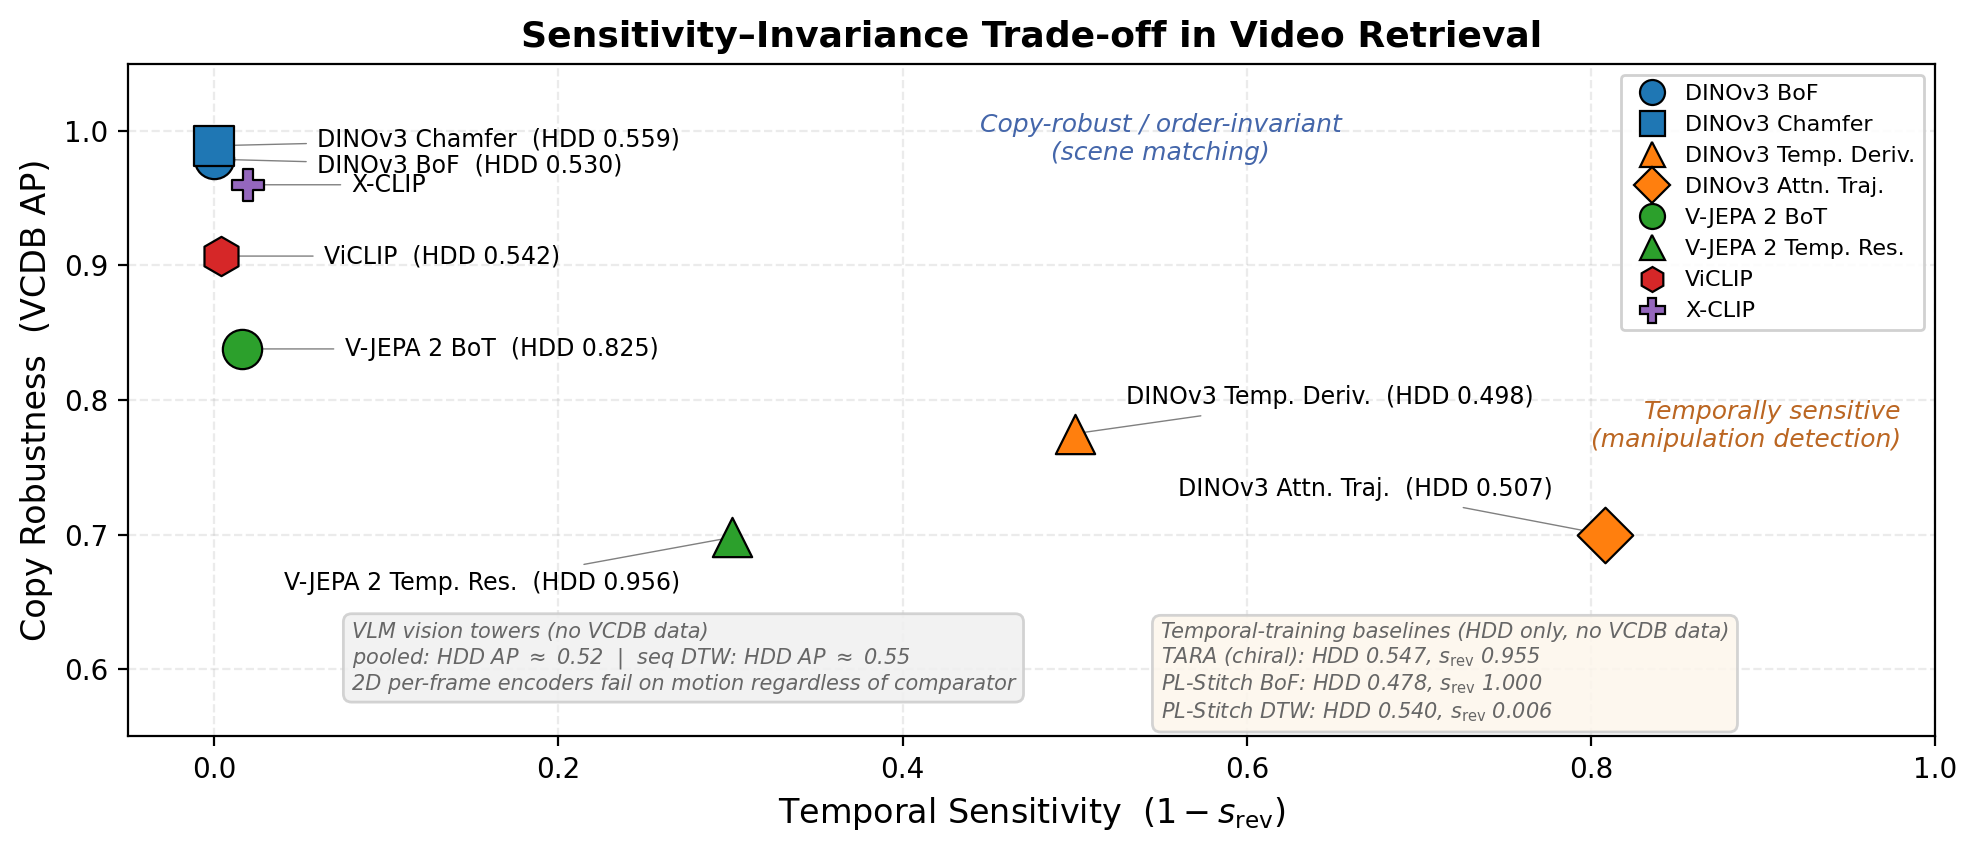
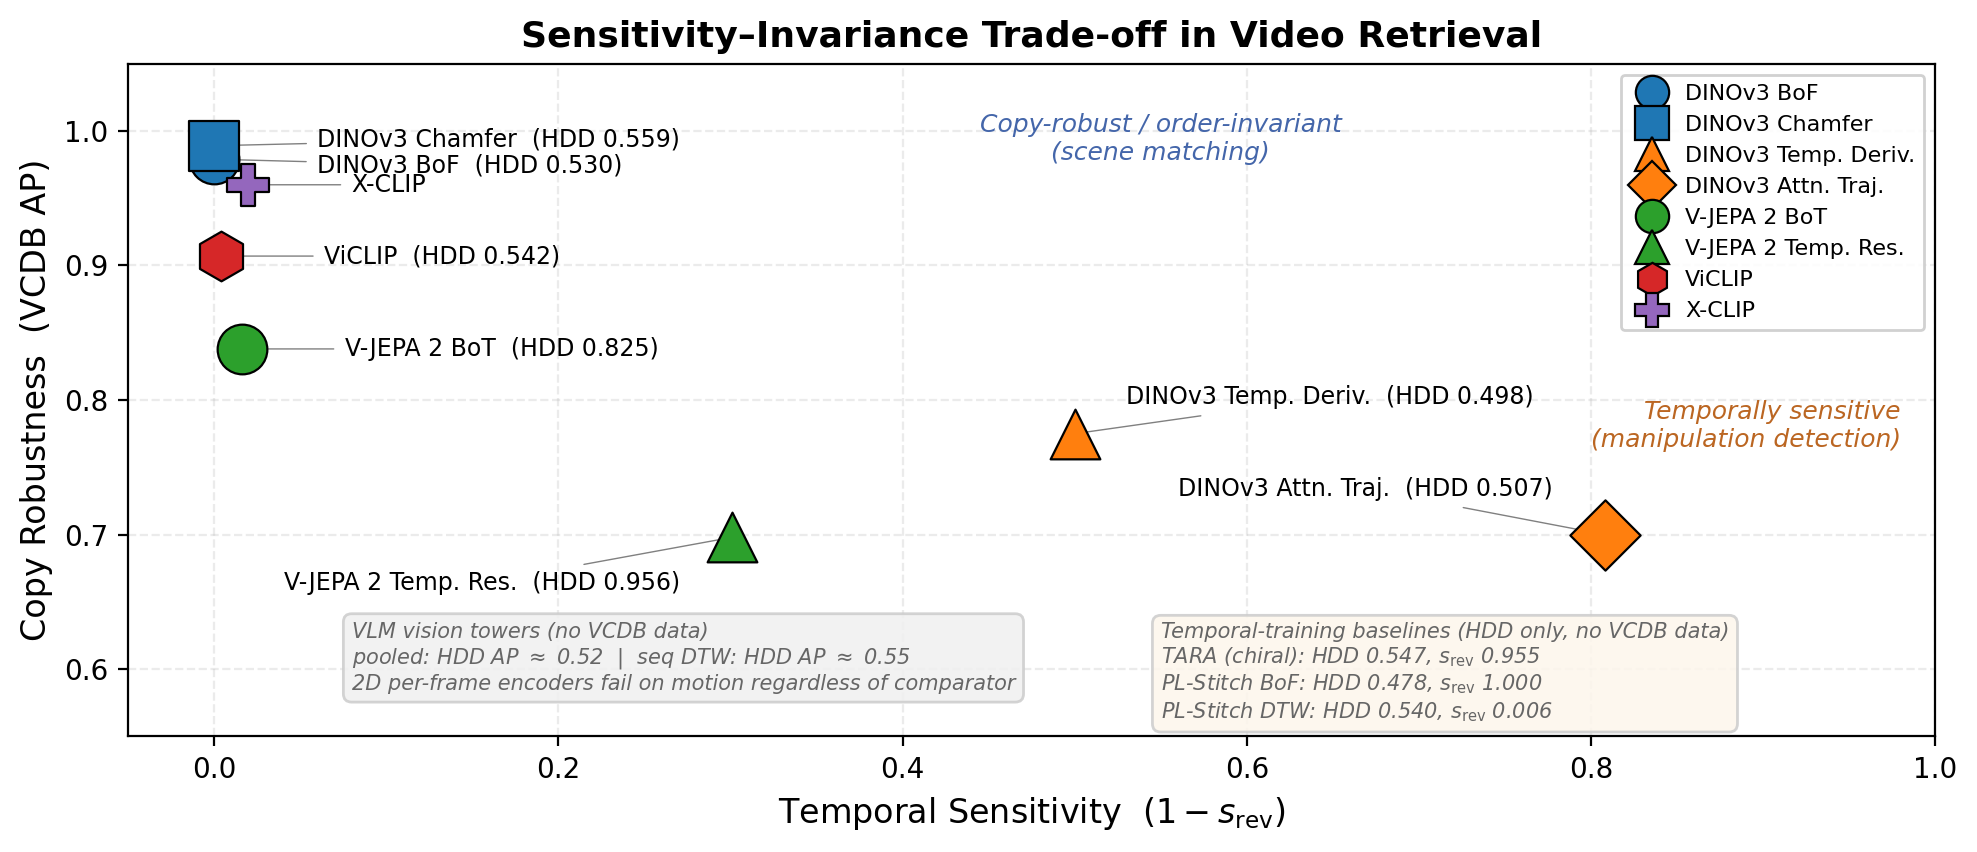
Content + citation pass: 10 bib fixes, active-voice abstract, numbered decision procedure, CI caveats, bigger Fig 5 markers
Content revisions per user feedback:
1. Abstract opener switched to active voice: "Video retrieval systems
   are temporally blind: reversed videos return identical embeddings,
   and no downstream signal flags the failure" (was a passive
   observational lede).
2. Decision procedure in Discussion now uses bold inline numbered
   steps (1)-(4) rather than prose-buried semicolons — visually
   distinct without costing vertical space. This is the "so what"
   answer to "where's the method?"
3. 89% claim now carries the cluster-level CI caveat at every
   citation site (Results, Discussion, Conclusion), not only Abstract.
4. Figure 5 markers enlarged (scatter s=320 / legend markersize=12,
   was 200/9) for print readability; paper width tightened to
   0.68\textwidth to preserve 9-page fit.

Second-round bib verification (47 remaining entries vs canonical
sources) caught 10 more corrections:
- [2]  vjepa21: added missing subtitle ("Unlocking Dense Features in
       Video Self-Supervised Learning").
- [4]  vcdb: expanded from stub "VCDB" to full title + 4 author names.
- [5]  honda_hdd: expanded from "Toward driving scene understanding"
       to full title + 4 author names.
- [9]  3dcsl: removed "et al." (paper has 3 authors, now listed in
       full); title casing corrected.
- [15] gemma4: "Technical Report" (unverified) -> "Model Card" (which
       does exist at the cited URL).
- [19] muvr: expanded to full title with "Benchmark with Multi-Level
[…]

diff --git a/paper/paper.tex b/paper/paper.tex
@@ -22,6 +22,7 @@
 \usepackage{placeins}
 \usepackage{multirow}
 \usepackage{amsthm}
+\usepackage{enumitem}
 
 \newtheorem{corollary}{Corollary}
 \newtheorem{lemma}{Lemma}
@@ -35,9 +36,10 @@
 \maketitle
 
 \begin{abstract}
-Temporal blindness in video models is well-documented for generative QA, but its
-consequences for \emph{retrieval embeddings}---where failures are silent---remain
-uncharacterized. We diagnose temporal sensitivity across six retrieval benchmarks
+Video retrieval systems are temporally blind: reversed videos return identical
+embeddings, and no downstream signal flags the failure. While this blindness
+is well-documented for generative QA, its consequences for \emph{retrieval
+embeddings} remain uncharacterized. We diagnose temporal sensitivity across six retrieval benchmarks
 spanning copy detection, temporal manipulation, and high-overlap motion retrieval.
 A feature-vs-comparator decomposition reveals that, within a given encoder,
 the matching stage (per-frame representation and sequence-aware similarity)
@@ -184,7 +186,7 @@ V-JEPA 2 Encoder-Seq DTW & 0.942 & 0.935 \\
 \end{tabular}
 \end{table}
 
-DINOv3 methods fail (AP $\approx$ 0.50): dashcam attention tracks salient objects identical for both turns. V-JEPA~2 temporal residuals achieve AP\,=\,0.956; a pixel-difference motion proxy rules out a trivial intensity shortcut (Spearman $r = 0.051$; Appendix~\ref{sec:hdd_leakage}), and optical flow (RAFT) achieves only AP\,=\,0.478. Restricting to left-vs-right pairs yields AP\,=\,0.960 [0.958, 0.963]. Comparing encoder patches via DTW (encoder-sequence DTW) achieves AP\,=\,0.942, showing that the matching stage (pooled-cosine $\to$ per-frame DTW) explains 89\% of the BoT-to-residual gap (0.825 $\to$ 0.956). A pairwise \emph{symmetric-max} (Chamfer) aggregation~\cite{kordopatis2019visil} on the same V-JEPA~2 encoder-sequence patches further decomposes this: it reaches AP\,=\,0.914 without any dynamic programming, closing 76\% of the BoT$\to$Encoder-Seq-DTW gap. The remaining 24\% (0.914$\to$0.942) is attributable specifically to DTW's monotonic warping constraint. We restrict encoder-sequence DTW to motion tasks (HDD, nuScenes); on VCDB, BoF already hits AP\,=\,0.989.
+DINOv3 methods fail (AP $\approx$ 0.50): dashcam attention tracks salient objects identical for both turns. V-JEPA~2 temporal residuals achieve AP\,=\,0.956; a pixel-difference motion proxy rules out a trivial intensity shortcut (Spearman $r = 0.051$; Appendix~\ref{sec:hdd_leakage}), and optical flow (RAFT) achieves only AP\,=\,0.478. Restricting to left-vs-right pairs yields AP\,=\,0.960 [0.958, 0.963]. Comparing encoder patches via DTW (encoder-sequence DTW) achieves AP\,=\,0.942, showing that the matching stage (pooled-cosine $\to$ per-frame DTW) explains 89\% of the BoT-to-residual gap (0.825 $\to$ 0.956; point estimate, cluster-level CIs wider, Appendix~\ref{sec:bootstrap_cis}). A pairwise \emph{symmetric-max} (Chamfer) aggregation~\cite{kordopatis2019visil} on the same V-JEPA~2 encoder-sequence patches further decomposes this: it reaches AP\,=\,0.914 without any dynamic programming, closing 76\% of the BoT$\to$Encoder-Seq-DTW gap. The remaining 24\% (0.914$\to$0.942) is attributable specifically to DTW's monotonic warping constraint. We restrict encoder-sequence DTW to motion tasks (HDD, nuScenes); on VCDB, BoF already hits AP\,=\,0.989.
 
 TARA~\cite{tara}, a 7B MLLM trained with chiral negatives, hits AP\,=\,0.547 under cosine---indistinguishable from ViCLIP (0.542) despite ${\sim}23\times$ more parameters. PL-Stitch~\cite{plstitch} (ViT-Base, Plackett-Luce ranking) supports the same decomposition: BoF yields AP\,=\,0.478, DTW on raw embeddings 0.540---both near chance, and below DINOv3 Chamfer (0.559), possibly reflecting a capacity (86M vs.\ 300M) and pretraining-scale gap rather than a comparator effect. Yet $s_\text{rev}\!=\!0.006$ under raw DTW confirms PL-Stitch \emph{does} encode frame order---the features are not discriminative enough for maneuver retrieval.
 
@@ -363,17 +365,19 @@ Qwen3-VL & 0.916 & 0.518 & 0.630 & $\geq$0.998 & N/A \\
 
 \textbf{Video prediction for temporal understanding.} V-JEPA~2~\cite{vjepa2} learns spatiotemporal representations via masked prediction. Drive-JEPA~\cite{drivejepa} is a downstream application (JEPA distillation for end-to-end driving), not a competing diagnosis; we instead treat V-JEPA~2 as one of several encoders under a retrieval-diagnosis lens. TWLV-I~\cite{twlvi} evaluates appearance vs.\ motion across video foundation models. Li et al.~\cite{temporaltransfer} show temporal information is encoded but standard pipelines fail to surface it, matching our finding.
 
-\textbf{Temporal alignment for retrieval.} DTW~\cite{sakoe1978dtw} remains standard; extensions include differentiable DTW~\cite{ddtw} and Drop-DTW~\cite{dropdtw}. At $T \approx 30$ frames, each comparison takes ${\sim}1$\,ms; top-100 reranking after FAISS~\cite{faiss} adds ${\sim}100$\,ms. We use DTW as a diagnostic tool; Weller et al.~\cite{weller2025limits} provide theoretical justification for multi-vector approaches.
+\textbf{Temporal alignment for retrieval.} DTW~\cite{sakoe1978dtw} remains standard; extensions include Soft-DTW~\cite{ddtw} and Drop-DTW~\cite{dropdtw}. We use DTW as a diagnostic tool; Weller et al.~\cite{weller2025limits} provide theoretical justification for multi-vector approaches.
 
 \section{Discussion}
 \label{sec:discussion}
 
-No single method dominates. \textbf{(i)~Scene matching} (VCDB, Nymeria, MUVR): BoF wins; temporal methods add noise (Appendix~\ref{sec:scene_matching}). \textbf{(ii)~Motion dynamics} (HDD, nuScenes): per-frame methods and VLM vision towers fail (AP\,$\leq$\,0.56); the residual advantage grows under sparser sampling (Section~\ref{sec:context_sweep}). On HDD, 89\% of the BoT-to-residual gap traces to the matching stage (per-frame structure with sequence-aware similarity), and on nuScenes the matching stage alone is on par with the residual transform (AP\,=\,0.867 vs.\ 0.815, marginally overlapping CIs)---within a given encoder, matching, not encoding, is the dominant driver. Video-native ViCLIP~\cite{viclip} ($s_\text{rev}\!=\!0.996$, HDD AP\,=\,0.542) and X-CLIP~\cite{xclip} ($s_\text{rev}\!=\!0.980$) do not escape the blind spot. Encoders with explicit temporal training fare no better: TARA~\cite{tara} (HDD AP\,=\,0.547) and PL-Stitch~\cite{plstitch} BoF (0.478) fail under cosine; even under DTW, PL-Stitch (0.540, $s_\text{rev}\!=\!0.006$---order \emph{is} encoded) trails DINOv3 Chamfer (0.559). V-JEPA~2's spatiotemporal masked-prediction supervises motion; image-SSL (DINOv3) and temporal ranking (PL-Stitch) are insufficient without capacity and scale. \textbf{(iii)~Temporal manipulation} (reversal, scrambling): implicit 3D models~\cite{3dcsl}, frame-sampling defenses~\cite{fojcik2025}, and Video-LLMs all remain order-invariant~\cite{plstitch, aot}. Chiral training (TARA, $s_\text{rev}\!=\!0.955$) and a reasoning VLM (Gemini~3.1 Pro, $0.599$) improve over baselines but neither reaches reliable. Per-frame features separate forward/reverse under DTW; pooling erases it across all LLM layers. \textbf{Decision procedure.} The three tools compose prescriptively: scramble first (flat AP $\Rightarrow$ A/A$'$); if degrading, feature-vs-comparator decomposition attributes to encoder (B) vs.\ matching (C); sampling-density sweep isolates D/D$'$. E/E$'$ and F/F$'$ surface via cluster CIs and generative-vs-embedding disagreement, running Table~\ref{tab:failure_taxonomy} as a protocol rather than post-hoc classification.
+No single method dominates. \textbf{(i)~Scene matching} (VCDB, Nymeria, MUVR): BoF wins; temporal methods add noise (Appendix~\ref{sec:scene_matching}). \textbf{(ii)~Motion dynamics} (HDD, nuScenes): per-frame methods and VLM vision towers fail (AP\,$\leq$\,0.56); the residual advantage grows under sparser sampling (Section~\ref{sec:context_sweep}). On HDD, 89\% of the BoT-to-residual gap traces to the matching stage (per-frame structure with sequence-aware similarity; cluster-level CIs wider), and on nuScenes the matching stage alone is on par with the residual transform (AP\,=\,0.867 vs.\ 0.815, marginally overlapping CIs)---within a given encoder, matching, not encoding, is the dominant driver. Video-native ViCLIP~\cite{viclip} ($s_\text{rev}\!=\!0.996$, HDD AP\,=\,0.542) and X-CLIP~\cite{xclip} ($s_\text{rev}\!=\!0.980$) do not escape the blind spot. Encoders with explicit temporal training fare no better: TARA~\cite{tara} (HDD AP\,=\,0.547) and PL-Stitch~\cite{plstitch} BoF (0.478) fail under cosine; even under DTW, PL-Stitch (0.540, $s_\text{rev}\!=\!0.006$---order \emph{is} encoded) trails DINOv3 Chamfer (0.559). V-JEPA~2's spatiotemporal masked-prediction supervises motion; image-SSL (DINOv3) and temporal ranking (PL-Stitch) are insufficient without capacity and scale. \textbf{(iii)~Temporal manipulation} (reversal, scrambling): implicit 3D models~\cite{3dcsl}, frame-sampling defenses~\cite{fojcik2025}, and Video-LLMs all remain order-invariant~\cite{plstitch, aot}. Chiral training (TARA, $s_\text{rev}\!=\!0.955$) and a reasoning VLM (Gemini~3.1 Pro, $0.599$) improve over baselines but neither reaches reliable. Per-frame features separate forward/reverse under DTW; pooling erases it across all LLM layers.
+
+\textbf{Decision procedure} (prescriptive; Table~\ref{tab:failure_taxonomy} is the classifier). \textbf{(1)}~\emph{Scramble gradient}: flat AP $\Rightarrow$ A/A$'$; stop. \textbf{(2)}~AP degrades $\Rightarrow$ \emph{decomposition}: encoder (B) vs.\ matching (C). \textbf{(3)}~\emph{Sampling-density sweep}: isolates D/D$'$. \textbf{(4)}~Cluster CIs + generative-vs-embedding disagreement: E/E$'$, F/F$'$.
 
 \begin{figure}[ht]
     \centering
     \vspace{-0.5em}
-    \includegraphics[width=0.72\textwidth]{../figures/sensitivity_invariance_tradeoff.png}
+    \includegraphics[width=0.68\textwidth]{../figures/sensitivity_invariance_tradeoff.png}
     \caption{Sensitivity--invariance trade-off: $1 - s_\text{rev}$ (EPIC) vs.\ VCDB AP. No method occupies the upper-right quadrant. \textbf{Axis caveat:} pooled and sequence $s_\text{rev}$ use different similarity functions (Eq.~\eqref{eq:srev}) and are not unit-commensurate; the quadrant claim depends only on within-family rankings.}
     \label{fig:sensitivity_invariance}
     \vspace{-0.5em}
@@ -387,38 +391,37 @@ No single method dominates. \textbf{(i)~Scene matching} (VCDB, Nymeria, MUVR): B
 \section{Conclusion}
 \vspace{-0.6em}
 
-No method spans copy detection and motion retrieval (Figure~\ref{fig:sensitivity_invariance}): within an encoder, matching explains 89\% of the HDD gap; pooling erases per-frame order across VLM layers. Indexable order-sensitive comparators remain open. %
+No method spans copy detection and motion retrieval (Figure~\ref{fig:sensitivity_invariance}): within an encoder, matching explains 89\% of the HDD gap (cluster-level CIs wider); pooling erases per-frame order across VLM layers. Indexable order-sensitive comparators remain open.%
 \ifdefined\neuripssubmission
-Code: supplementary (\texttt{REPRODUCIBILITY.md}).%
 \else
-Code: \url{https://github.com/mkatindustries/video-temporal-diagnostics}.%
+\footnote{Code: \url{https://github.com/mkatindustries/video-temporal-diagnostics}.}%
 \fi
 
 \FloatBarrier  % Force all main-body floats before references
 
 \begin{thebibliography}{99}
 \bibitem{vjepa2} M.~Assran, A.~Bardes, D.~Fan, Q.~Garrido et al. {V-JEPA~2: Self-Supervised Video Models Enable Understanding, Prediction and Planning}. \emph{arXiv:2506.09985}, 2025.
-\bibitem{vjepa21} L.~Mur-Labadia et al. {V-JEPA~2.1}. \emph{arXiv:2603.14482}, 2026.
+\bibitem{vjepa21} L.~Mur-Labadia et al. V-JEPA~2.1: Unlocking Dense Features in Video Self-Supervised Learning. \emph{arXiv:2603.14482}, 2026.
 \bibitem{dinov3} O.~Sim\'{e}oni, H.~V.~Vo, M.~Seitzer, F.~Baldassarre et al. {DINOv3}. \emph{arXiv:2508.10104}, 2025.
-\bibitem{vcdb} Y.~Jiang et al. {VCDB}. In \emph{ECCV}, 2014.
-\bibitem{honda_hdd} V.~Ramanishka et al. Toward driving scene understanding. In \emph{CVPR}, 2018.
+\bibitem{vcdb} Y.-G.~Jiang, Y.~Jiang, J.~Liu, Z.~Chen. VCDB: A Large-Scale Database for Partial Copy Detection in Videos. In \emph{ECCV}, 2014.
+\bibitem{honda_hdd} V.~Ramanishka, Y.-T.~Chen, T.~Misu, K.~Saenko. Toward Driving Scene Understanding: A Dataset for Learning Driver Behavior and Causal Reasoning. In \emph{CVPR}, 2018.
 \bibitem{nuscenes} H.~Caesar et al. nuScenes: A multimodal dataset for autonomous driving. In \emph{CVPR}, 2020.
 \bibitem{epickitchens} D.~Damen, H.~Doughty, G.~M.~Farinella, A.~Furnari et al. Rescaling Egocentric Vision: Collection, Pipeline and Challenges for EPIC-KITCHENS-100. \emph{IJCV}, 130(1), 2021 (online-first).
 \bibitem{fojcik2025} K.~Fojcik and P.~Syga. Counteracting temporal attacks in video copy detection. \emph{arXiv:2501.11171}, 2025.
-\bibitem{3dcsl} R.~Deng et al. {3D-CSL: Self-supervised 3D Context Similarity Learning for Near-Duplicate Video Retrieval}. \emph{arXiv:2211.05352}, 2022.
+\bibitem{3dcsl} R.~Deng, Q.~Wu, Y.~Li. 3D-CSL: self-supervised 3D context similarity learning for Near-Duplicate Video Retrieval. \emph{arXiv:2211.05352}, 2022.
 \bibitem{plstitch} C.~Che, C.~Wang, X.~Chen, S.~Tsoka. A Stitch in Time: Learning Procedural Workflow via Self-Supervised Plackett-Luce Ranking. \emph{arXiv:2511.17805}, 2025.
 \bibitem{arrowgev} F.~Yu, Z.~Lu, L.~Niu, F.~Meng. ArrowGEV: Grounding Events in Video via Learning the Arrow of Time. \emph{arXiv:2601.06559}, 2026.
 \bibitem{weavetime} Y.~Zhang, C.~Shi, S.~Yang. WeaveTime: Stream from Earlier Frames into Emergent Memory in VideoLLMs. \emph{arXiv:2602.22142}, 2026.
 \bibitem{timeblindness} U.~Upadhyay et al. Time Blindness: Why Video-Language Models Can't See What Humans Can? \emph{arXiv:2505.24867}, 2025.
 \bibitem{qwen3vl} Qwen Team. Qwen3-VL Technical Report. \emph{arXiv:2511.21631}, 2025.
-\bibitem{gemma4} Google DeepMind. Gemma~4 Technical Report. \url{https://ai.google.dev/gemma/docs/core/model_card_4}, 2026.
+\bibitem{gemma4} Google DeepMind. Gemma~4 Model Card. \url{https://ai.google.dev/gemma/docs/core/model_card_4}, 2026.
 \bibitem{llavavideo} Y.~Zhang et al. LLaVA-Video: Video Instruction Tuning With Synthetic Data. \emph{arXiv:2410.02713}, 2024.
 \bibitem{aot} S.~Matta, L.~K.~Pereira, P.~Han, F.~Cheng. Which Way Does Time Flow? A Psychophysics-Grounded Evaluation for Vision-Language Models. \emph{arXiv:2510.26241}, 2025.
 \bibitem{vitatecs} S.~Li et al. VITATECS: A Diagnostic Dataset for Temporal Concept Understanding of Video-Language Models. In \emph{ECCV}, 2024.
-\bibitem{muvr} Y.~Feng et al. Multi-Modal Untrimmed Video Retrieval. \emph{arXiv:2510.21406}, 2025.
+\bibitem{muvr} Y.~Feng et al. MUVR: A Multi-Modal Untrimmed Video Retrieval Benchmark with Multi-Level Visual Correspondence. \emph{arXiv:2510.21406}, 2025.
 \bibitem{semdedup} A.~Abbas et al. SemDeDup: Data-efficient learning at web-scale through semantic deduplication. \emph{arXiv:2303.09540}, 2023.
 \bibitem{faiss} J.~Johnson et al. Billion-scale similarity search with GPUs. \emph{IEEE Transactions on Big Data}, 2019.
-\bibitem{ddtw} M.~Cuturi and M.~Blondel. Soft-{DTW}: A Differentiable Loss Function for Time-Series. In \emph{ICML}, 2017.
+\bibitem{ddtw} M.~Cuturi and M.~Blondel. Soft-{DTW}: a Differentiable Loss Function for Time-Series. In \emph{ICML}, 2017.
 \bibitem{douze2021isc} M.~Douze, G.~Tolias, E.~Pizzi et al. The 2021 Image Similarity Dataset and Challenge. In \emph{NeurIPS Competition Track}, 2021.
 \bibitem{pizzi2023vsc} E.~Pizzi, G.~Kordopatis-Zilos, H.~Patel, G.~Postelnicu et al. The 2023 Video Similarity Dataset and Challenge. \emph{Computer Vision and Image Understanding}, 2024.
 \bibitem{pizzi2022sscd} E.~Pizzi, S.~D.~Roy, S.~N.~Ravindra, P.~Goyal, and M.~Douze. A Self-Supervised Descriptor for Image Copy Detection. In \emph{CVPR}, 2022.
@@ -428,11 +431,11 @@ Code: \url{https://github.com/mkatindustries/video-temporal-diagnostics}.%
 \bibitem{he2023transvcl} S.~He et al. TransVCL: Attention-enhanced Video Copy Localization Network with Flexible Supervision. In \emph{AAAI}, 2023.
 \bibitem{han2021vsal} Z.~Han, X.~He, M.~Tang, and Y.~Lv. Video Similarity and Alignment Learning on Partial Video Copy Detection. In \emph{ACM~MM}, 2021.
 \bibitem{sakoe1978dtw} H.~Sakoe and S.~Chiba. Dynamic Programming Algorithm Optimization for Spoken Word Recognition. \emph{IEEE Trans.\ Acoustics, Speech, and Signal Processing}, 26(1):43--49, 1978.
-\bibitem{nymeria} L.~Ma et al. Nymeria: A Massive Collection of Multimodal Egocentric Daily Motion in the Wild. In \emph{CVPR}, 2025.
+\bibitem{nymeria} L.~Ma et al. Nymeria: A Massive Collection of Multimodal Egocentric Daily Motion in the Wild. In \emph{ECCV}, 2024.
 \bibitem{reveal} T.~V.~Sethuraman et al. Stress Tests REVEAL Fragile Temporal and Visual Grounding in Video-Language Models. \emph{arXiv:2602.11244}, 2026.
 \bibitem{timeblind} B.~Li et al. TimeBlind: A Spatio-Temporal Compositionality Benchmark for Video LLMs. \emph{arXiv:2602.00288}, 2026.
 \bibitem{tgpo} Z.~Xu et al. Incentivizing Temporal-Awareness in Egocentric Video Understanding Models. \emph{arXiv:2603.27184}, 2026.
-\bibitem{tara} P.~Bagad and A.~Zisserman. TARA: Simple and Efficient Time Aware Retrieval Adaptation of MLLMs. \emph{arXiv:2512.13511}, 2025.
+\bibitem{tara} P.~Bagad and A.~Zisserman. TARA: Simple and Efficient Time Aware Retrieval Adaptation of MLLMs for Video Understanding. \emph{arXiv:2512.13511}, 2025.
 \bibitem{drivejepa} L.~Wang et al. Drive-JEPA: Video JEPA Meets Multimodal Trajectory Distillation for End-to-End Driving. \emph{arXiv:2601.22032}, 2026.
 \bibitem{weller2025limits} O.~Weller, M.~Boratko, I.~Naim, and J.~Lee. On the Theoretical Limitations of Embedding-Based Retrieval. \emph{arXiv:2508.21038}, 2025.
 \bibitem{nextgqa} J.~Xiao, A.~Yao, Y.~Li, and T.-S.~Chua. Can I Trust Your Answer? Visually Grounded Video Question Answering. In \emph{CVPR}, 2024. \emph{arXiv:2309.01327}.
@@ -450,7 +453,7 @@ Code: \url{https://github.com/mkatindustries/video-temporal-diagnostics}.%
 \bibitem{wang2023duallevel} T.~Wang, F.~Ma, Z.~Liu, and F.~Rao. A Dual-Level Detection Method for Video Copy Detection. \emph{arXiv:2305.12361}, 2023.
 \bibitem{infact} J.~Yang, Y.~Min, J.~Zhang, S.~Shan, and X.~Chen. INFACT: A Diagnostic Benchmark for Induced Faithfulness and Factuality Hallucinations in Video-LLMs. \emph{arXiv:2603.11481}, 2026.
 \bibitem{videozerobench} J.~Meng et al. VideoZeroBench: Probing the Limits of Video MLLMs with Spatio-Temporal Evidence Verification. \emph{arXiv:2604.01569}, 2026.
-\bibitem{claude4opus} Anthropic. Claude 4.6 Opus Model Card. \url{https://docs.anthropic.com/en/docs/about-claude/models}, 2026.
+\bibitem{claude4opus} Anthropic. Claude Opus 4.6 Model Card. \url{https://docs.anthropic.com/en/docs/about-claude/models}, 2026.
 \bibitem{gemini31pro} Google DeepMind. Gemini 3.1 Pro. \url{https://ai.google.dev/gemini-api/docs/models}, 2026.
 \bibitem{viclip} Y.~Wang, Y.~He, Y.~Li, K.~Li et al. InternVid: A Large-scale Video-Text Dataset for Multimodal Understanding and Generation. In \emph{ICLR}, 2024.
 \bibitem{xclip} B.~Ni, H.~Peng, M.~Chen et al. Expanding Language-Image Pretrained Models for General Video Recognition. In \emph{ECCV}, 2022.

diff --git a/scripts/plot_sensitivity_invariance.py b/scripts/plot_sensitivity_invariance.py
@@ -33,7 +33,7 @@ fig, ax = plt.subplots(figsize=(10, 4.4))
 for label, ts, vcdb, hdd, marker, color in methods:
     if vcdb is None:
         continue  # HDD-only methods plotted separately below
-    size = 200 if hdd is not None else 140
+    size = 320 if hdd is not None else 220
     ax.scatter(
         ts,
         vcdb,
@@ -155,7 +155,7 @@ legend_elements = [
         markerfacecolor=color,
         markeredgecolor="black",
         markeredgewidth=0.8,
-        markersize=9,
+        markersize=12,
         label=label,
     )
     for label, _ts, vcdb, _hdd, marker, color in methods